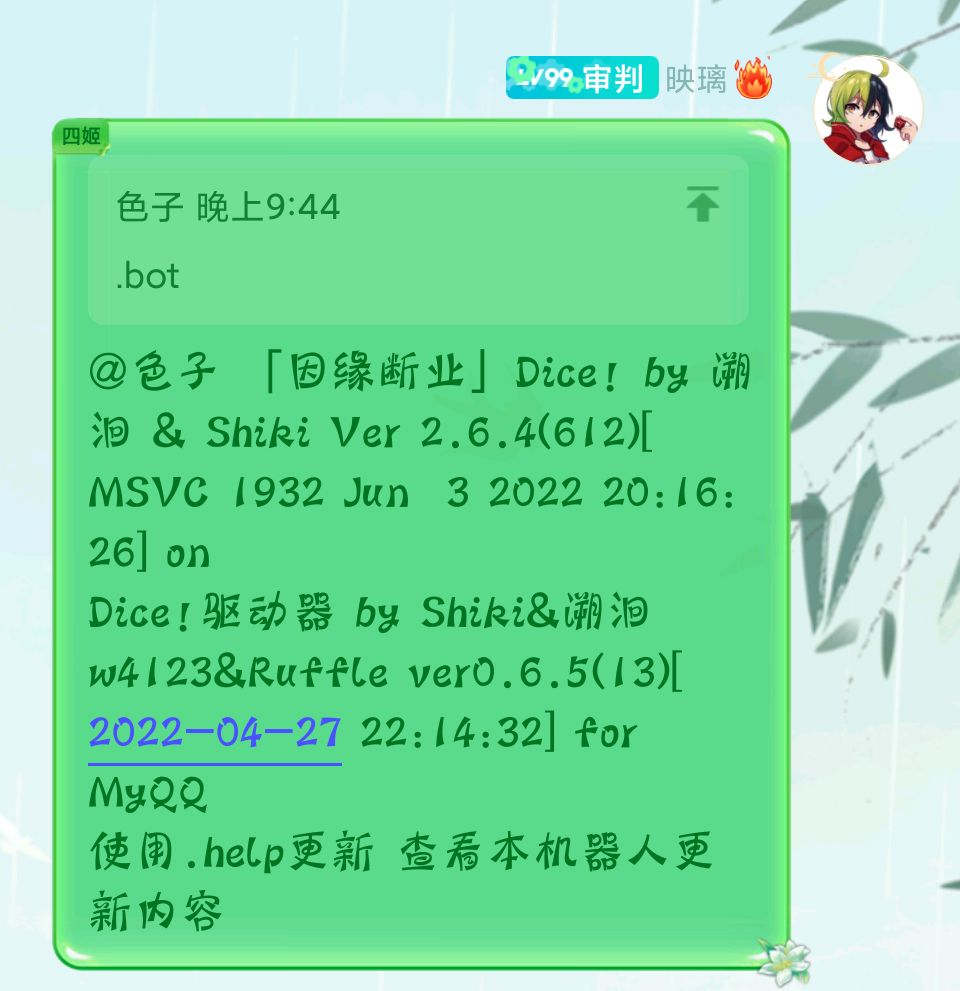
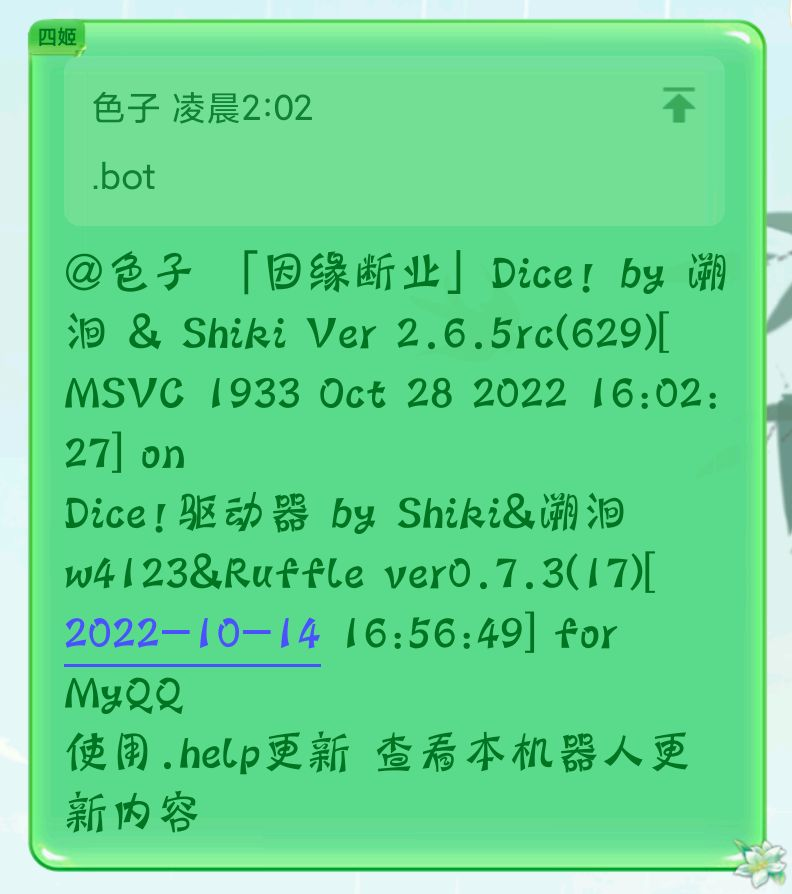
update User_Manual2.6.5

diff --git a/User_Manual.md b/User_Manual.md
@@ -1,6 +1,6 @@
 # Dice! 用户手册
 
-本手册对应Dice!2.6.4版本，为用户指令提供说明。管理权限使用的指令请参考[Master手册](https://shiki.stringempty.xyz/Manual/Shiki_Master_Manual.html)。[点此下载本手册](https://shiki.stringempty.xyz/download/Shiki_User_Manual.pdf)![](_static/demo_bot.jpg)
+本手册对应Dice!2.6.5版本，为用户指令提供说明。管理权限使用的指令请参考[Master手册](https://shiki.stringempty.xyz/Manual/Shiki_Master_Manual.html)。[点此下载本手册](https://shiki.stringempty.xyz/download/Shiki_User_Manual.pdf)![](_static/demo_bot.jpg)
 
 [TOC]
 
@@ -37,7 +37,6 @@
 
 - `.bot`						//群里所有骰子都会应答
 - `.bot on 1605271653`			//开启指定骰子
-- `@kokona .bot off`					//先at以静默指定骰子
 - `.bot off 8350`					//输入QQ末四位与QQ号等效
   //群中只有管理员有权限开关骰子<br>
   //.bot无视静默状态，只要插件开启且不在内置黑名单总是有效<br>
@@ -60,7 +59,7 @@
 
 向开启私用模式或审核模式、需要群【许可使用】的骰娘为群申请授权。受信任用户使用时将直接授权成功，否则申请信息会发送给管理员。
 
-- `!authorize (+[群号]) [申请理由]` //原地为本群申请时可忽略群号。
+- `!authorize (+[群号]) 申请用途:[ **理由** ] 我已了解Dice!基本用法，认真阅读并保证遵守{strSelfName}的用户协议，如需停用指令使用[ **请填入指令** ]，用后使用[ **请填入指令** ]送出群` //就地为本群申请时可忽略群号。
 
 ## .send 发送消息
 
@@ -99,12 +98,12 @@
 
 用法：`.ob (exit/list/clr/on/off)`
 
-- `.ob`						//加入旁观可以看到他人暗骰结果
-- `.ob exit`						//退出旁观模式
-- `.ob list`						//查看群内旁观者
-- `.ob clr`						//清除所有旁观者
-- `.ob on`						//全群允许旁观模式
-- `.ob off`						//禁用旁观模式
+- `.ob join`	//加入旁观可以看到他人暗骰结果
+- `.ob exit`	//退出旁观模式
+- `.ob list`	//查看群内旁观者
+- `.ob clr`	//清除所有旁观者
+- `.ob on`	//全群允许旁观模式
+- `.ob off`	//禁用旁观模式
   //暗骰与旁观仅在群聊中有效
 
 ## .set 设置默认骰
@@ -112,25 +111,26 @@
 用法：`.set [默认骰子面数]`。如果已绑定角色卡，将修改角色卡的默认骰，否则修改用户配置的默认骰。
 
 - `.set 20`						//合法参数为1-1000
-- `.set` 						//重置为默认的D100
+- `.set` 						//重置为默认（COC7角色卡默认100）
 
 ## .name 随机昵称
 
 用法：`.name (cn/jp/en)([生成数量])`
 
 - `.name 10`					//默认三类名称随机生成
-- `.name en`					//后接cn/jp/en则限定生成中文/日文/英文名
+- `.name en`					//从指定子牌堆随机生成，后接cn/jp/en则限定生成中文/日文/英文名
 
-## .nn 设置昵称
+## .nn 设置称呼
 
 用法：`.nn [昵称] / .nn / .nnn (cn/jp/en)`
 
-- `.nn kp`						//掷骰时昵称前的./！等符号会被自动忽略
-- `.nn`						//视为删除昵称
-- `.nnn`						//设置为随机昵称
-- `.nnn jp`						//设置限定随机昵称		
+- `.nn kp`	//掷骰时昵称前的./！等符号会被自动忽略
+- `.nn del`	//删除当前窗口称呼
+- `.nn clr`	//删除在各个群记录的所有称呼
+- `.nnn`	//从随机姓名牌堆设置随机称呼
+- `.nnn jp`	//从指定子牌堆随机昵称		
   //私聊时设置的昵称视为全局昵称			
-  //每个群的群内昵称是独立的，优先级群内昵称>全局昵称>群名片>QQ昵称
+  //该称呼用于{nick}的显示，优先级：群内称呼>全局称呼>群名片>QQ昵称；无角色卡或未命名时也用于显示{pc}
 
 ## .coc COC人物作成
 
@@ -229,13 +229,11 @@
 
 ##　.log 日志记录
 
-跑团日志记录
-
-- `.log new`  //新建日志并开始记录
-- `.log on`  //开始记录
-- `.log off`  //暂停记录
-- `.log end`  //完成记录并发送日志文件
-  日志上传存在失败可能，届时请联系后台管理索取
+- `.log new 日志名` 另开日志并开始记录
+- `.log on` 继续记录
+- `.log off` 暂停记录
+- `.log end` 完成记录并发送日志文件
+日志名须作为文件名合法，省略则使用创建时间戳。上传有失败风险，届时请.send骰娘后台索取
 
 ## .sc 理智检定
 
@@ -305,8 +303,27 @@ COC规则，用法见.rules
 
 用法：`.welcome [欢迎词]`  //每有新人入群时将发送欢迎词
 
-- `.welcome {at}欢迎{nick}入群！`		//{at}视为at入群者，{nick}会替换为新人的昵称
-- `.welcome`				//清除欢迎词
+`.welcome {at}欢迎{nick}入群~`	//设置欢迎词
+//{at}视为at入群者，{nick}会替换为新人的昵称，更多转义见手册
+`.welcome clr` //清空欢迎词
+`.welcome show` //查看欢迎词
+无论指令是否停用，只要有欢迎词时有人入群，都会响应
+
+### 欢迎词可用转义
+
+- help帮助词条
+
+  `{help:指令}`
+
+- sample随机取一
+
+  `{sample:1|2}`
+
+- case条件差分
+
+  `{case:差分变量?条件1=值1&条件2=2&else=备选值}` 
+
+  例：`{case:user.gender?male=男&female=女&else=未知性别}`
 
 ## .group 群管理操作（仅群管理可用）
 
@@ -444,8 +461,12 @@ D10攻击判定决定命中部位
   原因：一个离线的账号自然是不可能有任何响应的 
 
   解决方案：通过用户群等渠道询问骰主
+  
+- QQ新拉起来的多人聊天没有群号？
 
+  原因：QQ当前所有群聊类型是统一的，区别只在于资料界面的详略程度
 
+  解决方案：`.group state`/`.rh`等指令都可以在回执中看到消息来源群号
 
 # 使用实例
 
